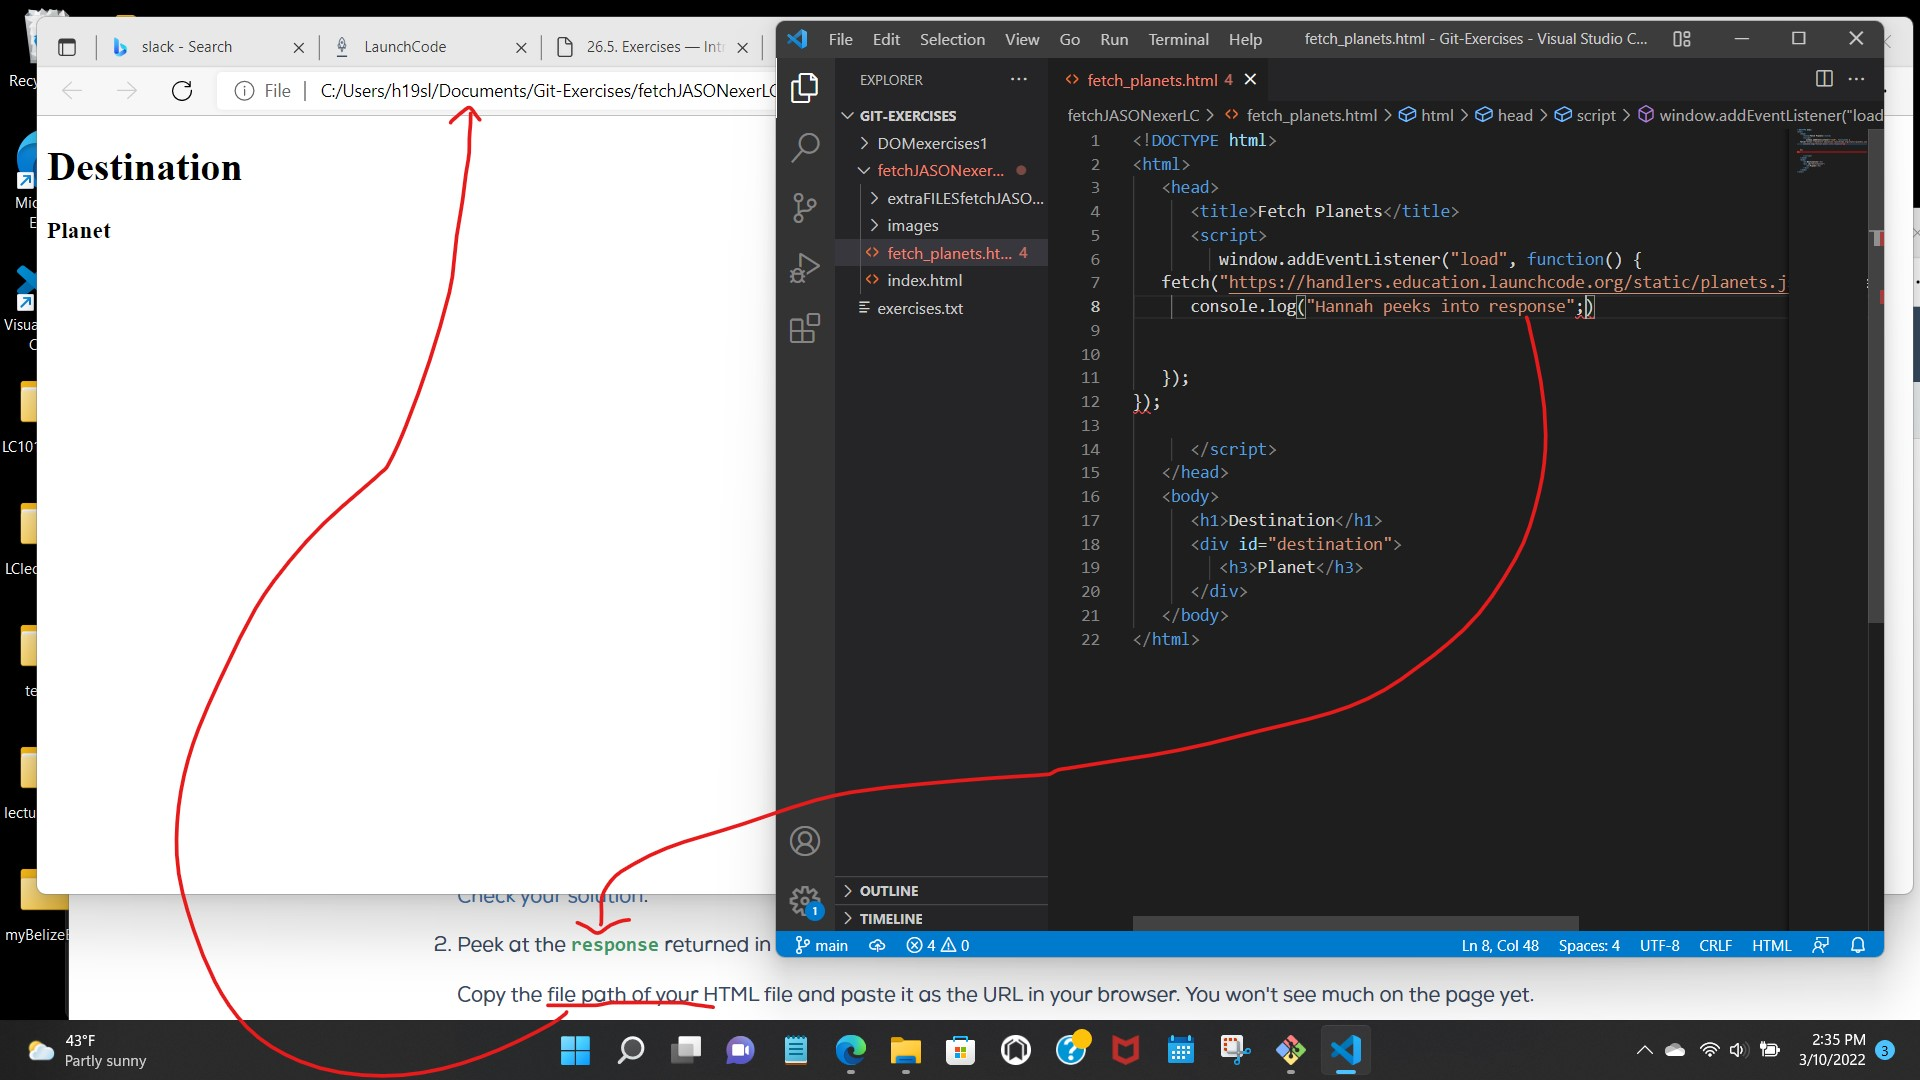
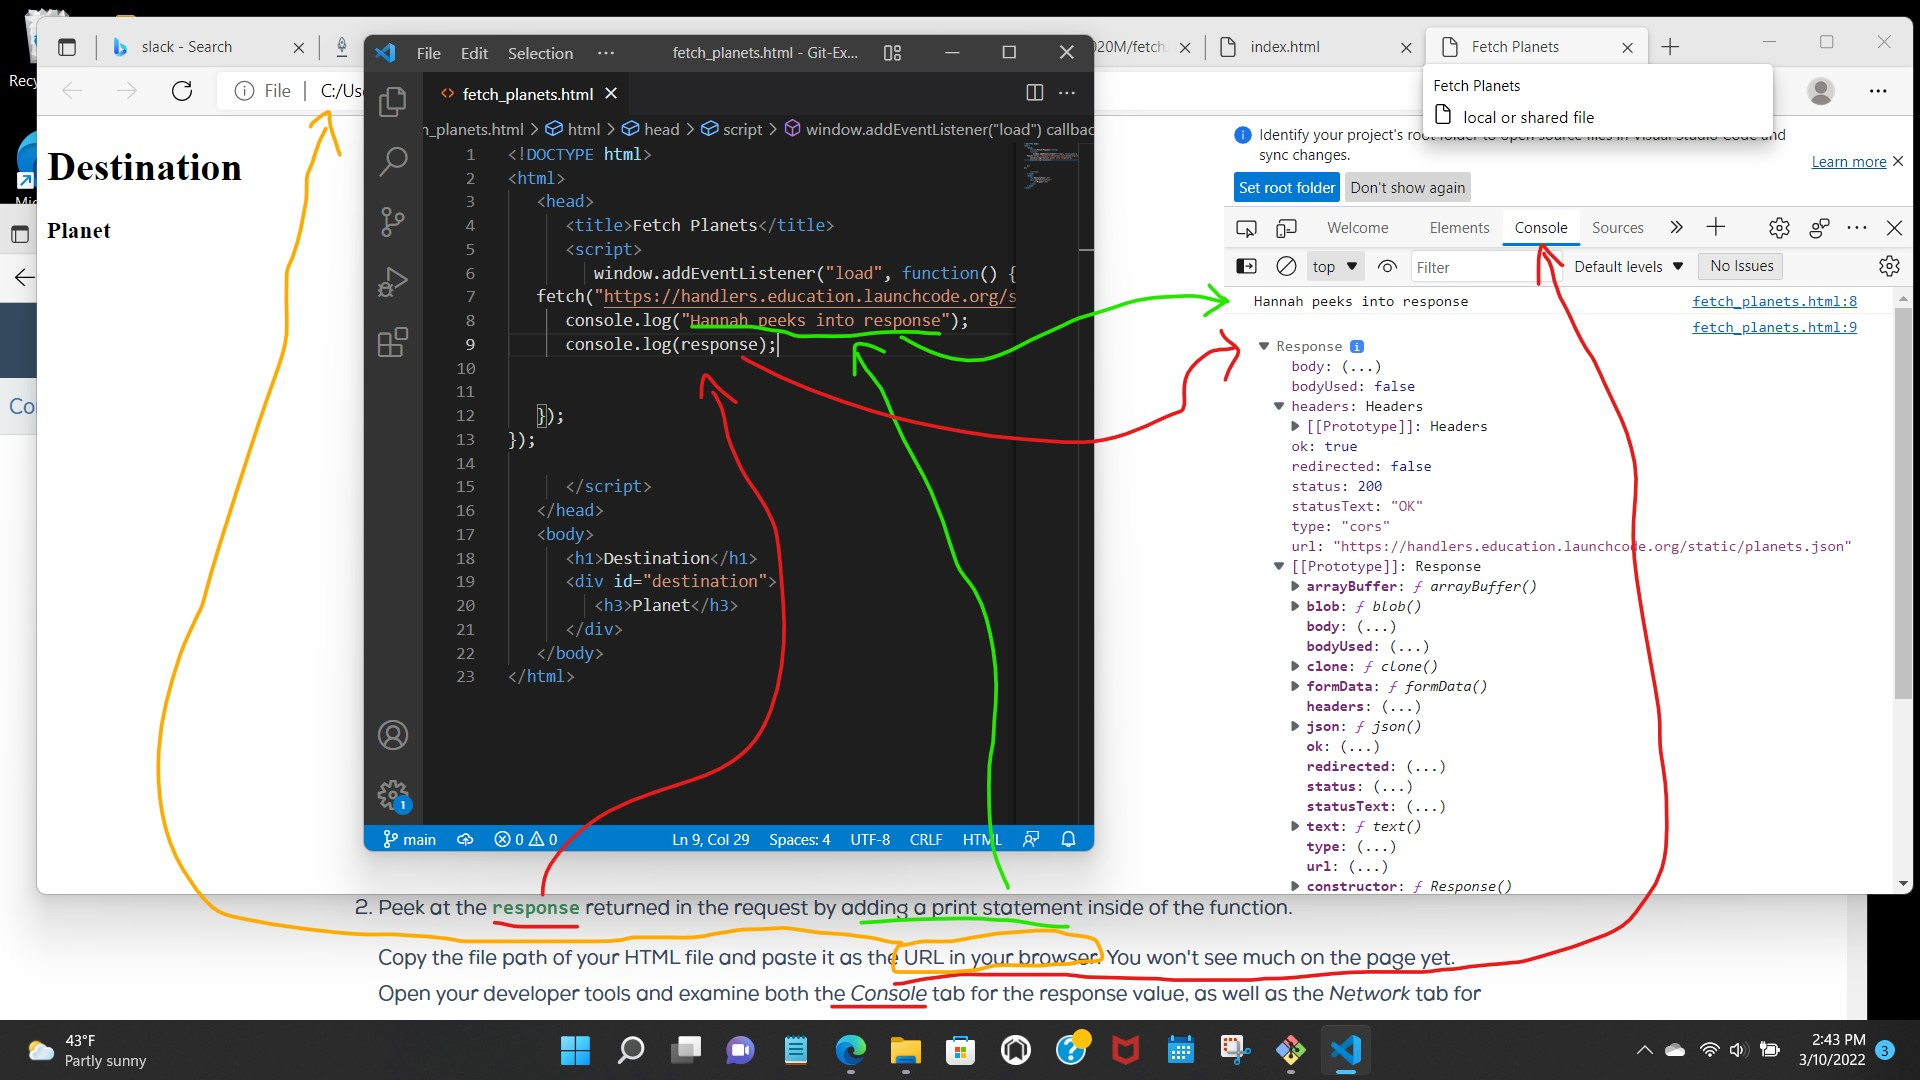
images planet name retrieval

diff --git a/fetch_planets.html b/fetch_planets.html
@@ -1,22 +1,27 @@
 <!DOCTYPE html>
 <html>
-   <head>
-      <title>Fetch Planets</title>
-      <script>
-         window.addEventListener("load", function() {
-   fetch("https://handlers.education.launchcode.org/static/planets.json").then(function(response){
-      console.log("Hannah peeks into response"); 
 
+<head>
+    <title>Fetch Planets</title>
+    <script>
+        window.addEventListener("load", function () {
+            fetch("https://handlers.education.launchcode.org/static/planets.json").then(function (response) {
+                console.log("Hannah peeks into response");
+                response.json().then(function (json) {
+                    const destination = document.getElementById("destination");
+                    destination.innerHTML = `<h3>Planet ${json[2].name}</h3>`;
+                });
+            });
+        });
 
-   });
-});
+    </script>
+</head>
 
-      </script>
-   </head>
-   <body>
-      <h1>Destination</h1>
-      <div id="destination">
-         <h3>Planet</h3>
-      </div>
-   </body>
+<body>
+    <h1>Destination</h1>
+    <div id="destination">
+        <h3>Planet</h3>
+    </div>
+</body>
+
 </html>
